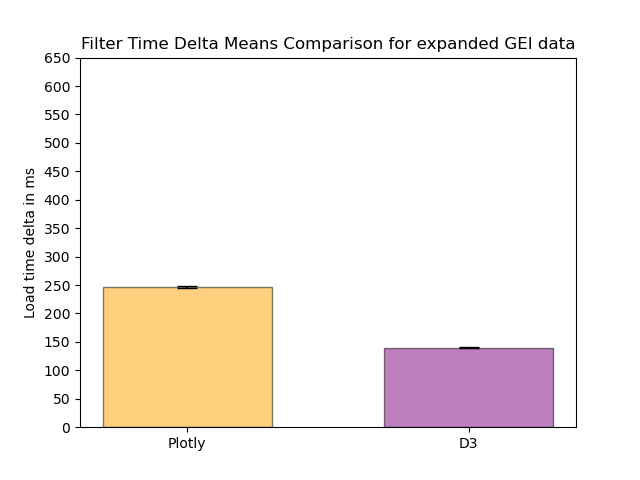
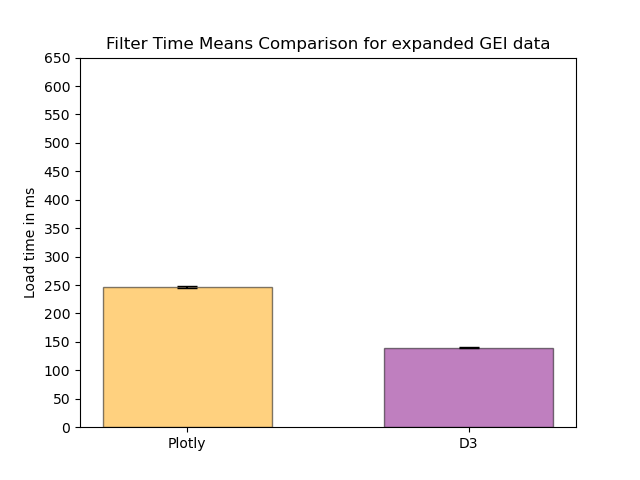
adjusted the working in the graphs showing filter mean time

Changed region(s): [[0.125, 0.0625, 0.9062, 0.125], [0.0312, 0.3438, 0.0625, 0.6562]]

diff --git a/experimentData/run2-1000/dataScripts/filterCI.py b/experimentData/run2-1000/dataScripts/filterCI.py
@@ -13,10 +13,10 @@ def mean_confidence_interval(data, confidence=0.95):
 
 
 # Read your data from file
-plotly = "../CulledData/plotly/exp/plotly_exp_filterDiff_culled.txt"
+plotly = "../plotly/diffs/org/plotly_org_filterDiff.txt"
 plotly_df = pd.read_csv(plotly, header=None, names=['delta'])
 
-d3_data = "../CulledData/d3/exp/d3_exp_filterDiff_culled.txt"
+d3_data = "../d3/diffs/org/d3_org_filterDiff.txt"
 d3_df = pd.read_csv(d3_data, header=None, names=['delta'])
 
 print("CI plotly delta: ", mean_confidence_interval(plotly_df['delta']))
@@ -65,10 +65,10 @@ plt.bar(barsOrder, barsData, color=colors, edgecolor='black', width=barWidth,
 # Put a tick on the x-axis undex each bar and label it with column name
 # plt.xticks(range(len(df.columns)), df.columns)
 
-plt.ylabel('Load time delta in ms')
+plt.ylabel('Load time in ms')
 plt.yticks(range(0, 700, 50))
 plt.xticks(range(2), ['Plotly', 'D3'])
-plt.title('Filter Time Delta Means Comparison for expanded GEI data')
+plt.title('Filter Time Means Comparison for original GEI data')
 plt.grid(False)
-plt.savefig('../CulledData/graphs/allFilterMeanCIexp_culled.png')
+plt.savefig('../Graphs/filterLoadTimeDeltaOrg.png')
 # plt.show()
